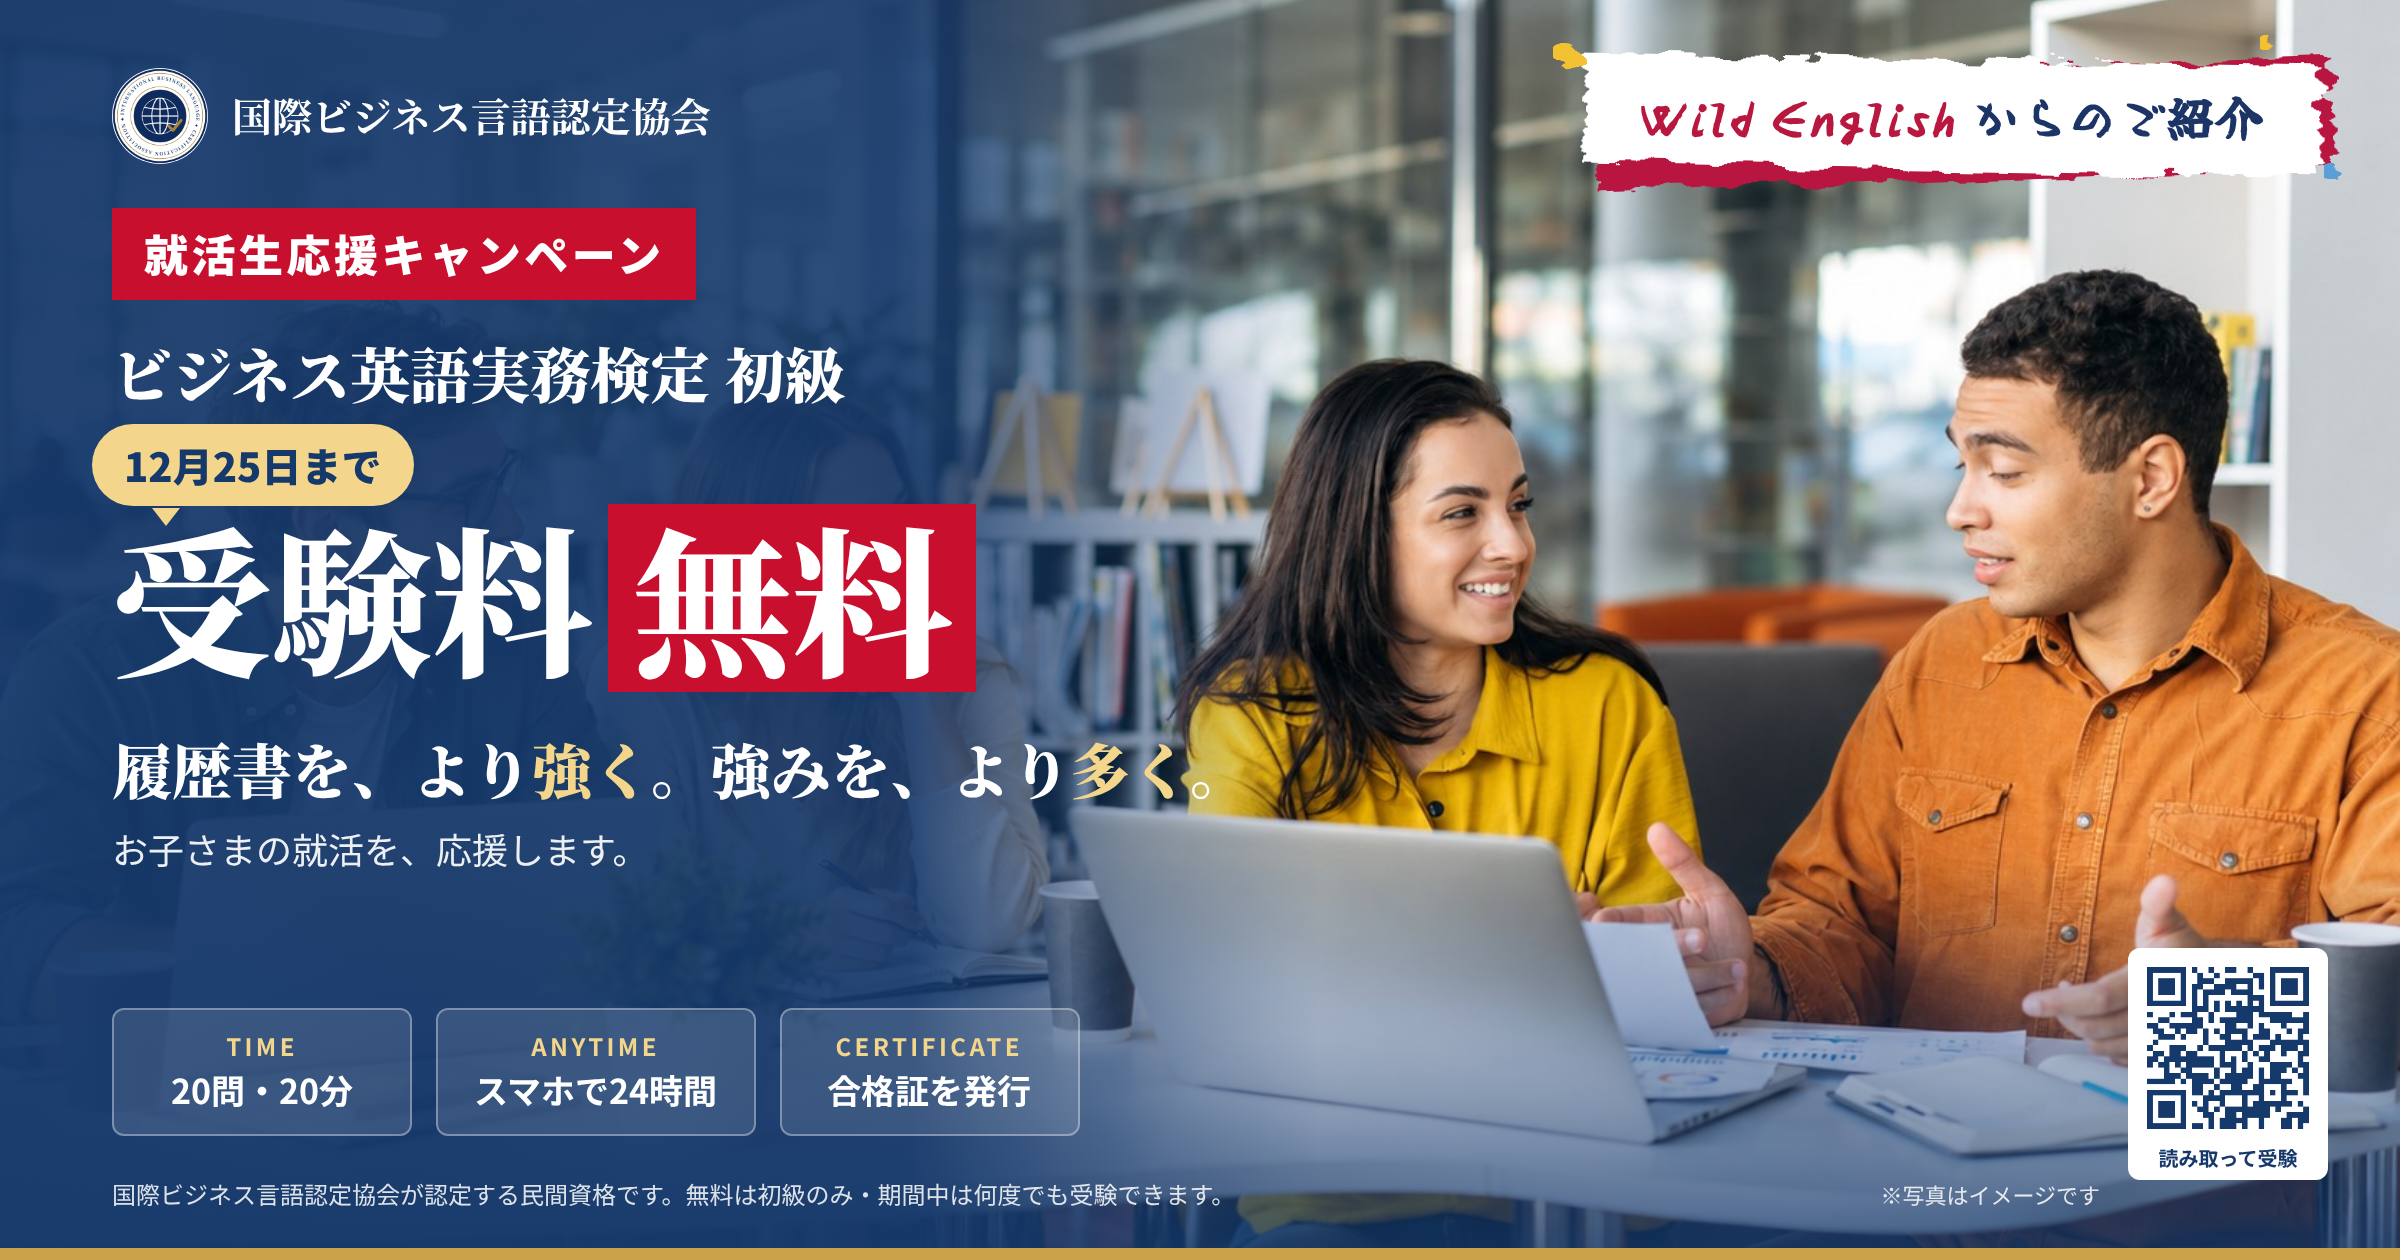
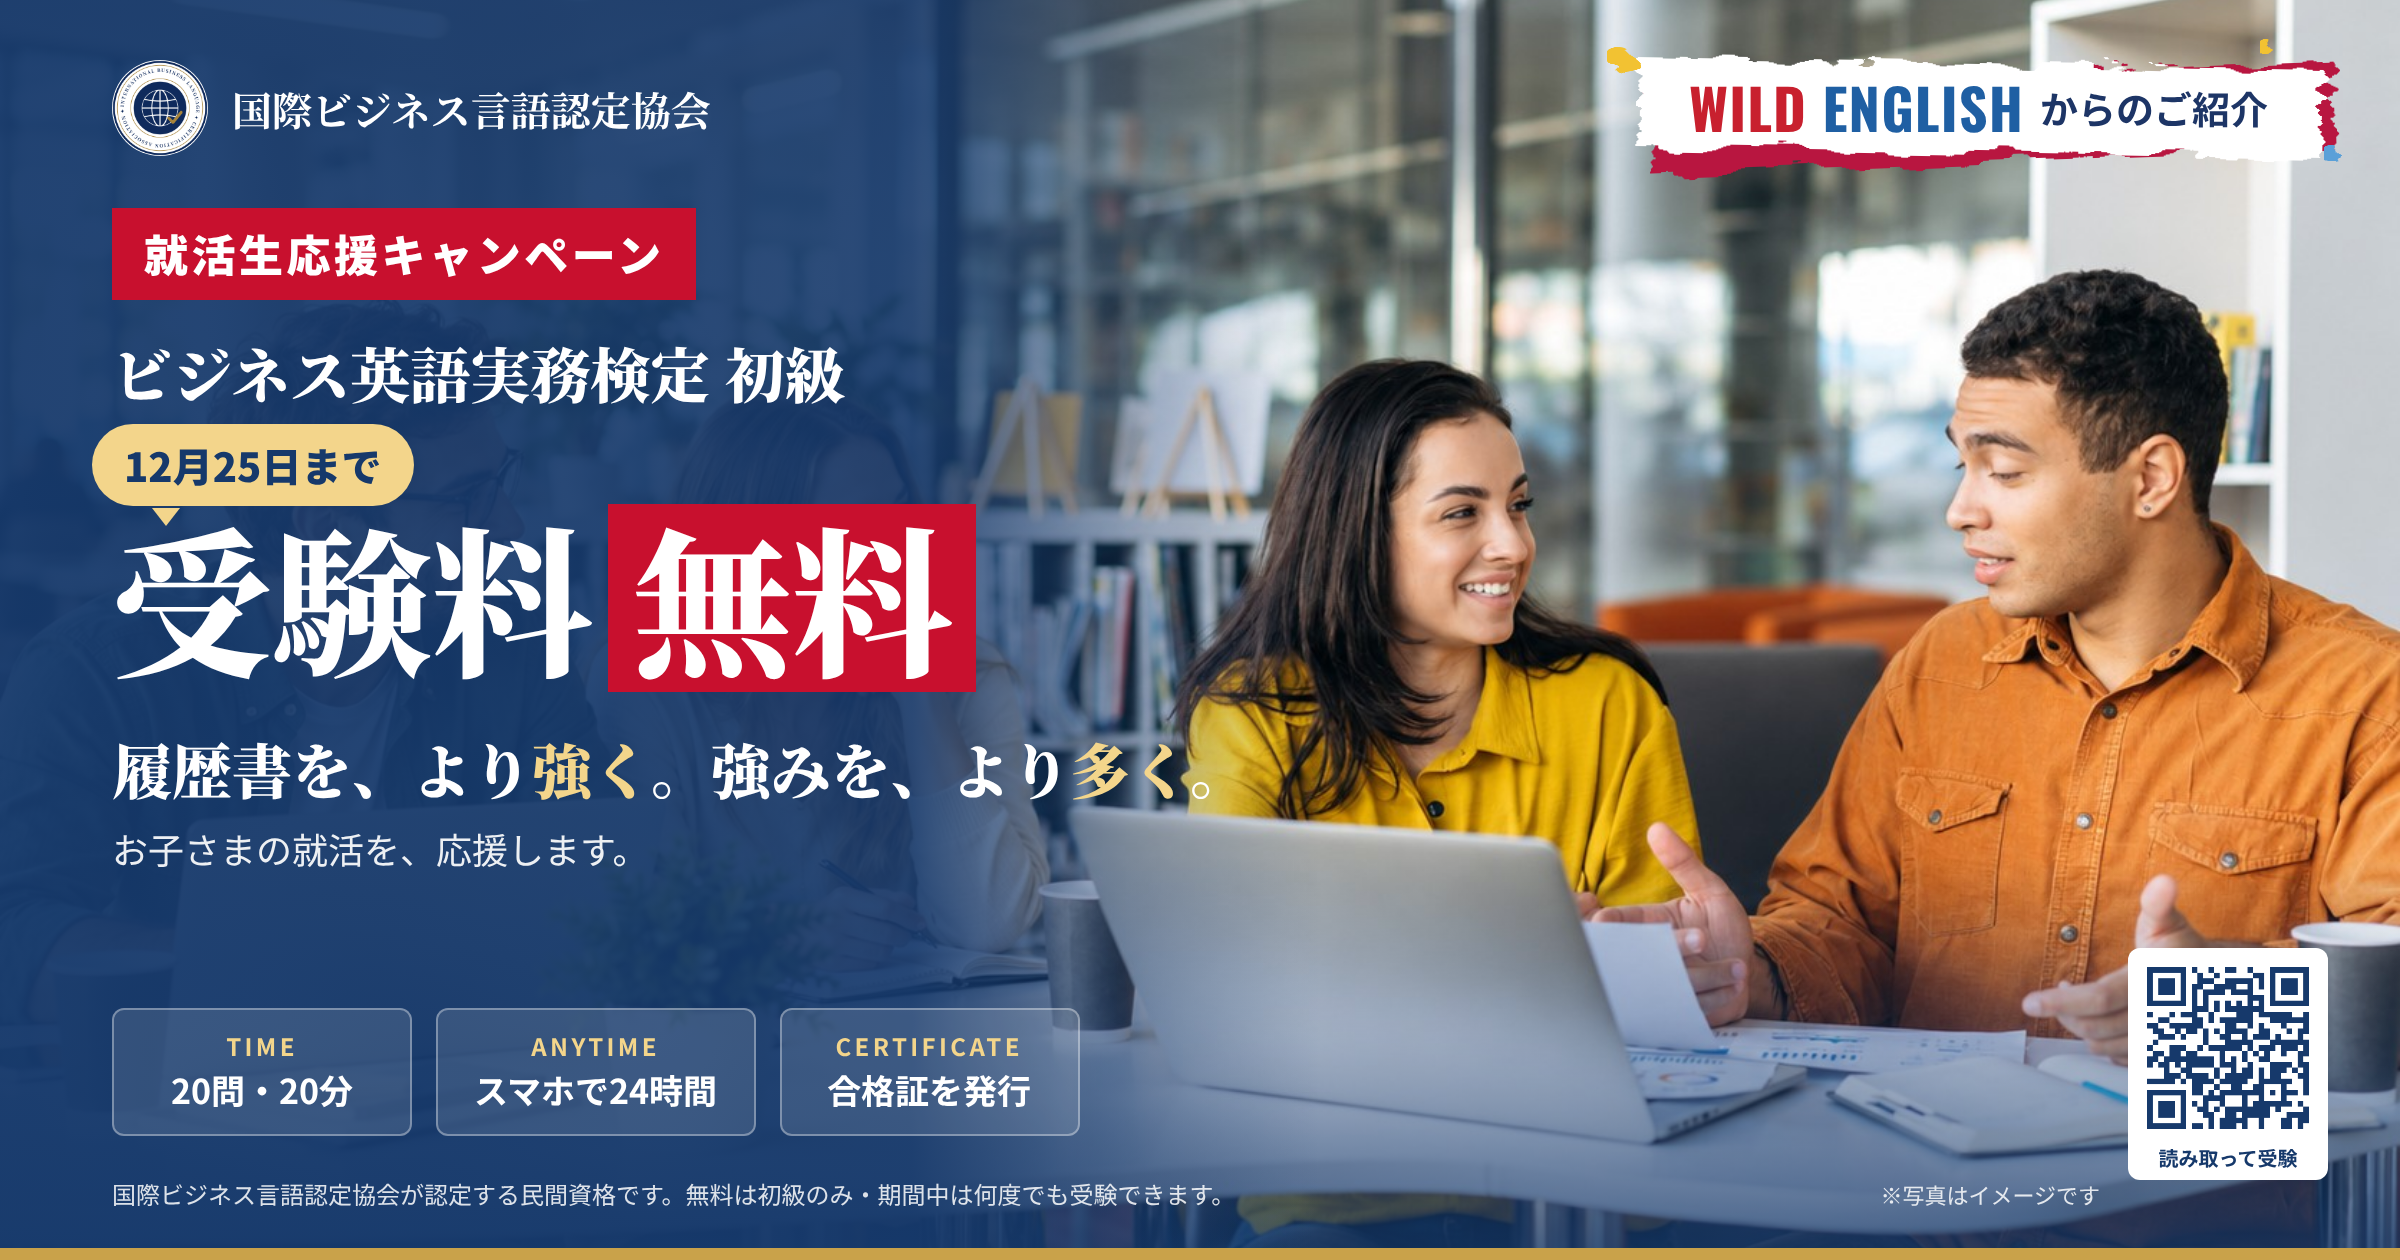
FB広告：WILD ENGLISH の文字をスクールの看板に寄せる
Claude-Session: https://claude.ai/code/session_01T3NaLWbuuvRT9b8SoudneK

Changed region(s): [[0.625, 0.031, 0.9688, 0.1548], [0.0312, 0.031, 0.3125, 0.1238]]

diff --git a/assets/本陣へ/fb_src/combo_1080.html b/assets/本陣へ/fb_src/combo_1080.html
@@ -1,4 +1,4 @@
-<!doctype html><html><head><meta charset="utf-8"><!-- 書体 Yuji Boku：npm pack @fontsource/yuji-boku を boku/ に展開 --><link rel="stylesheet" href="boku/400.css"><style>
+<!doctype html><html><head><meta charset="utf-8"><!-- 書体 Oswald：npm pack @fontsource/oswald を oswald/ に展開 --><link rel="stylesheet" href="oswald/700.css"><style>
 *{margin:0;padding:0;box-sizing:border-box}
 :root{--navy:#16396b;--gold:#f3d58b;--red:#c8102e}
 body{width:1080px;height:1080px;position:relative;overflow:hidden;font-family:"Noto Sans CJK JP",sans-serif;color:#fff;background:var(--navy)}
@@ -29,16 +29,17 @@ body{width:1080px;height:1080px;position:relative;overflow:hidden;font-family:"N
 .qrw span{display:block;color:var(--navy);font-size:13px;font-weight:700;margin-top:2px}
 .note{position:absolute;left:64px;bottom:26px;font-size:14px;opacity:.85}
 .line{position:absolute;left:0;right:0;bottom:0;height:8px;background:#c9a24a}
-.pr{position:relative;background:none !important;border:none !important;box-shadow:none !important;color:#1d3566 !important;font-family:"Yuji Boku",serif !important;font-weight:400 !important;font-size:24px !important;padding:10px 28px !important;z-index:1;letter-spacing:.02em;-webkit-text-stroke:1.1px currentColor}
+.pr{position:relative;background:none !important;border:none !important;box-shadow:none !important;color:#1d3566 !important;font-family:"Noto Sans CJK JP",sans-serif !important;font-weight:700 !important;font-size:19px !important;padding:8px 26px !important;z-index:1;display:flex;align-items:center;gap:8px}
 .pr:before,.pr:after{content:none !important}
 .pr .s1,.pr .s2{position:absolute;inset:0;z-index:-1;filter:url(#paint)}
 .pr .s1{background:#b8183f;transform:rotate(-2deg) translate(6px,5px)}
 .pr .s2{background:#fff;transform:rotate(1deg)}
 .pr .dot{position:absolute;border-radius:50%;z-index:-1;filter:url(#paint)}
-.pr b{color:#b8183f !important;font-weight:400}
+.pr b{font-family:"Oswald",sans-serif;font-weight:700;font-size:28px;letter-spacing:.02em;line-height:1}
+.pr b i{font-style:normal;color:#c8202e}.pr b u{text-decoration:none;color:#1f5fa3}
 </style></head><body><svg width="0" height="0" style="position:absolute"><filter id="paint" x="-10%" y="-30%" width="120%" height="160%"><feTurbulence type="fractalNoise" baseFrequency="0.035 0.12" numOctaves="3" seed="4" result="n"/><feDisplacementMap in="SourceGraphic" in2="n" scale="16" xChannelSelector="R" yChannelSelector="G"/></filter></svg>
 <div class="photo"></div><div class="fade"></div>
-<div class="top"><div class="org"><img src="logo.png"><b>国際ビジネス言語認定協会</b></div><div class="pr"><span class="s1"></span><span class="s2"></span><span class="dot" style="width:14px;height:14px;background:#f2c230;left:-14px;top:-8px"></span><span class="dot" style="width:9px;height:9px;background:#5aa0d8;right:-12px;bottom:-6px"></span><span class="dot" style="width:7px;height:7px;background:#f2c230;right:22px;top:-12px"></span><b>Wild English</b> からのご紹介</div></div>
+<div class="top"><div class="org"><img src="logo.png"><b>国際ビジネス言語認定協会</b></div><div class="pr"><span class="s1"></span><span class="s2"></span><span class="dot" style="width:14px;height:14px;background:#f2c230;left:-14px;top:-8px"></span><span class="dot" style="width:9px;height:9px;background:#5aa0d8;right:-12px;bottom:-6px"></span><span class="dot" style="width:7px;height:7px;background:#f2c230;right:22px;top:-12px"></span><b><i>WILD</i> <u>ENGLISH</u></b>からのご紹介</div></div>
 <div class="main">
 <span class="tag">就活生応援キャンペーン</span>
 <div class="kentei">ビジネス英語実務検定 初級</div>

diff --git a/assets/本陣へ/fb_src/combo_1200x630.html b/assets/本陣へ/fb_src/combo_1200x630.html
@@ -1,4 +1,4 @@
-<!doctype html><html><head><meta charset="utf-8"><!-- 書体 Yuji Boku：npm pack @fontsource/yuji-boku を boku/ に展開 --><link rel="stylesheet" href="boku/400.css"><style>
+<!doctype html><html><head><meta charset="utf-8"><!-- 書体 Oswald：npm pack @fontsource/oswald を oswald/ に展開 --><link rel="stylesheet" href="oswald/700.css"><style>
 *{margin:0;padding:0;box-sizing:border-box}
 :root{--navy:#16396b;--gold:#f3d58b;--red:#c8102e}
 body{width:1200px;height:630px;position:relative;overflow:hidden;font-family:"Noto Sans CJK JP",sans-serif;color:#fff;background:var(--navy)}
@@ -30,16 +30,17 @@ body{width:1200px;height:630px;position:relative;overflow:hidden;font-family:"No
 .qrw{position:absolute;right:36px;bottom:40px;background:#fff;border-radius:6px;padding:4px;text-align:center}
 .qrw img{display:block;width:92px;height:92px}
 .qrw span{display:block;color:#16396b;font-size:10px;font-weight:700;margin-top:1px}
-.pr{position:relative;background:none !important;border:none !important;box-shadow:none !important;color:#1d3566 !important;font-family:"Yuji Boku",serif !important;font-weight:400 !important;font-size:24px !important;padding:10px 28px !important;z-index:1;letter-spacing:.02em;-webkit-text-stroke:1.1px currentColor}
+.pr{position:relative;background:none !important;border:none !important;box-shadow:none !important;color:#1d3566 !important;font-family:"Noto Sans CJK JP",sans-serif !important;font-weight:700 !important;font-size:19px !important;padding:8px 26px !important;z-index:1;display:flex;align-items:center;gap:8px}
 .pr:before,.pr:after{content:none !important}
 .pr .s1,.pr .s2{position:absolute;inset:0;z-index:-1;filter:url(#paint)}
 .pr .s1{background:#b8183f;transform:rotate(-2deg) translate(6px,5px)}
 .pr .s2{background:#fff;transform:rotate(1deg)}
 .pr .dot{position:absolute;border-radius:50%;z-index:-1;filter:url(#paint)}
-.pr b{color:#b8183f !important;font-weight:400}
+.pr b{font-family:"Oswald",sans-serif;font-weight:700;font-size:28px;letter-spacing:.02em;line-height:1}
+.pr b i{font-style:normal;color:#c8202e}.pr b u{text-decoration:none;color:#1f5fa3}
 </style></head><body><svg width="0" height="0" style="position:absolute"><filter id="paint" x="-10%" y="-30%" width="120%" height="160%"><feTurbulence type="fractalNoise" baseFrequency="0.035 0.12" numOctaves="3" seed="4" result="n"/><feDisplacementMap in="SourceGraphic" in2="n" scale="16" xChannelSelector="R" yChannelSelector="G"/></filter></svg>
 <div class="bg"></div><div class="shade"></div>
-<div class="top"><div class="org"><img src="logo.png"><b>国際ビジネス言語認定協会</b></div><div class="pr"><span class="s1"></span><span class="s2"></span><span class="dot" style="width:14px;height:14px;background:#f2c230;left:-14px;top:-8px"></span><span class="dot" style="width:9px;height:9px;background:#5aa0d8;right:-12px;bottom:-6px"></span><span class="dot" style="width:7px;height:7px;background:#f2c230;right:22px;top:-12px"></span><b>Wild English</b> からのご紹介</div></div>
+<div class="top"><div class="org"><img src="logo.png"><b>国際ビジネス言語認定協会</b></div><div class="pr"><span class="s1"></span><span class="s2"></span><span class="dot" style="width:14px;height:14px;background:#f2c230;left:-14px;top:-8px"></span><span class="dot" style="width:9px;height:9px;background:#5aa0d8;right:-12px;bottom:-6px"></span><span class="dot" style="width:7px;height:7px;background:#f2c230;right:22px;top:-12px"></span><b><i>WILD</i> <u>ENGLISH</u></b>からのご紹介</div></div>
 <div class="main">
 <span class="tag">就活生応援キャンペーン</span>
 <div class="kentei">ビジネス英語実務検定 初級</div>
